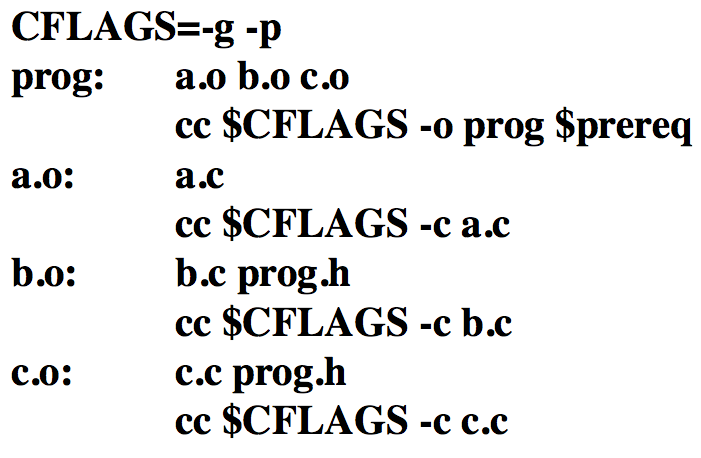
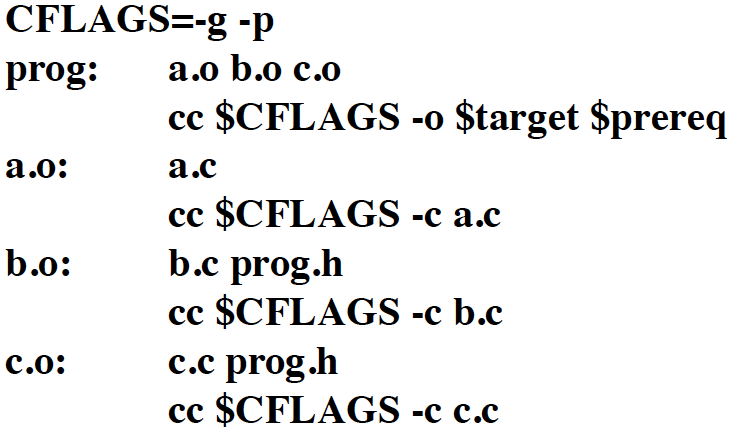
clase mk terminada

diff --git a/presentaciones/mk.md b/presentaciones/mk.md
@@ -3,7 +3,7 @@
 
 [*Mk*](https://swtch.com/plan9port/man/man1/mk.html) es una herramienta general y eficiente para describir y mantener dependencias entre archvos y programas. Mk es compatible y al estilo de la herramienta de UNIX *make*. Las ventajas más importantes de mk sobre make es que ejecuta recetas en paralelo, usando metareglas de emparejado de patrones más que reglas de transformación de sufijos, y de resolucion de dependencias por cierre transitivo de todas las reglas. Mk corre donde sea de 2 a 30 veces más rápido de make.
 
-Un ejemplo
+### Receta básica
 
 Dado que mk está basado en make y make es un programa para instalar programas, vamos a ejemplificar mk con la instalación de un programa que, en este caso se llamará **prog**. Digamos que **prog** se hace a partir de **a.o** y **b.o**, los cuales a su vez se hacen al compilar **a.c** y **b.c** respectivamente. Además **b.c** incluye un archivo de cabecera **prog.h**. Representamos estas relaciones esquemáticamente como sigue: 
 
@@ -27,9 +27,151 @@ Si cambiamos un archivo fuente, *mk* solo reconstruirá aquellos archivos que no
 
 <img src="../imagenes/mk5.png" height = "120">
 
+*Mk* puede explicar porque está reconstruyendo un archivo si usamos la opción **-e**. Por ejemplo
+
+<img src="../imagenes/mk6.png" height = "160">
+
+Esto es, **b.o** estaba desactualizado con respecto a **prog.h**. Después de que **b.o** fue re hecho, se encontró que **prog** estaba desactualizado con respecto a **b.o** y fue re hecho. Los números son las fechas de modificación de los archivos: los valores no son tan importantes como la diferencia entre ellos. Una fechas de modificación de cero indica un archivo que no existe.
+
+### Variables
+
+Supongamos ahora que necesitamos añadir una opción en todos los pasos, por ejemplo necesitamos la opción **-g**. Por demos simplemente editar cada paso para cambiar **c** a **cc -g**:
+
+<img src="../imagenes/mk7.png" height = "140">
+
+Una mejor solución es unas una *variable*. En *mk* una variable tiene una forma muy similar a una variable de shell. Un nombre conveneinte (mnemotécnico) sería **CFLAGS**. El nuevo mkfile se vería así:
+
+<img src="../imagenes/mk8.png" height = "150">
+
+Ahora, si quieremos añadir más opciones a todos los pasos (digamos añadir la opción **-p**) necesitamos solo cambiar la primer línea a
+
+<img src="../imagenes/mk9.png" height = "25"> 
+
+y recompilar todos los objetos de nuevo. La forma facil de hacer esto es con **mk -a** lo que quiere decir "has todo de nuevo sin importar la fecha de modificación".
+
+Algunas variables ya están incluidas por *mk* para ser usadas en las fórmulas. Dos muy comunes son **prereq** y **target** cuyo valor siempre será todos los prerequicitos de la regla y el objetivo de la mismo respectivamente. Podemos entonces reescribir la primera reglas así:
+
+<img src="../imagenes/mk10.png" height = "60"> 
+
+Así se puede garantizar que los prerequicitos de cada regla son los mismos. Ahora es facil incorporar un nuevo requicito , por ejemplo **c.o** añadiendo el nuevo nombre una sola vez.
+
+<img src="../imagenes/mk11.png" height = "200">
+
+### Ejercicio
+
+Hagamos una *mk*. Vamos a suponer que tenemos unos archivos *fastq* que queremos alinear con **BWA**.
 
 
+Primero entremos al cluster con nuestra cuenta de alumno. Las instrucciones [aquí](./ssh.md).
+
+Entramos a byobu
+
+```
+$ byobu
+```
+
+hacemos una carpeta donde va a vivir nuestro mk y entramos
+
+```
+$ mkdir mk_bwa
+$ cd mk_bwa
+```
+
+Hacemos una liga simbólica de nuestros datos a la carpeta del mk
+
+```
+$ ls -lah /castle/alumno70/data.alignment/
+$ ln -s /castle/alumno70/data.alignment data
+```
+
+¿Cómo alinearíamos una muestra?
+
+```
+$ bwa mem \
+	-t 2 \
+	/reference/ftp.broadinstitute.org/bundle/hg38/Homo_sapiens_assembly38.fasta \
+	/data/MT1_L001_R1.fastq.gz \
+	/data/MT1_L001_R1.fastq.gz \
+	> MT1.sam 	
+```
+
+Nuestra recera sería:
+
+```
+NPROC=1 # This program uses threads, so we use only one process
+THREADS=2
+REFERENCE=/reference/ftp.broadinstitute.org/bundle/hg38/Homo_sapiens_assembly38.fasta
+
+results/bwa_align/%.sam:	data/%_L001_R1.fastq.gz data/%_L001_R2.fastq.gz
+	mkdir -p `dirname $target`
+	bwa mem \
+		-t $THREADS \
+		$REFERENCE \
+		$prereq \
+		> $target
+```
+
+entonce hay que copiar esta receta en un archivo llamado *mkfile*
+
+```
+$ nano mkfile
+```
 
 
+De esta forma si queremos hacer el sam de la primera secuencia tenemos que hacer
 
-http://hgdownload.cse.ucsc.edu/goldenPath/hg19/encodeDCC/wgEncodeUwRepliSeq/
+```
+$ mk results/bwa_align/MT1.sam
+```
+
+Pero queremos que nos los haga todos a la vez. ¿se acuerdan que *mk* hace la primera orden de la lista de tareas? 
+Vamos a generar una tarea virtual con todas las acciones que queremos. Para esto hay que generar los los nombres de todos los targets de nuestro mk.
+
+```
+$ find -L data/ -name '*.fastq.gz' \
+| sed -r -e 's#data/#results/bwa_align/#g' -e 's#_L001_R[12]\.fastq\.gz#.sam#g' \
+| sort -u
+```
+
+Y nuestra receta sería
+
+
+```
+NPROC=1 # This program uses threads, so we use only one process
+THREADS=2
+REFERENCE=/reference/ftp.broadinstitute.org/bundle/hg38/Homo_sapiens_assembly38.fasta
+
+BWA_ALIGN_TARGETS=`{ find -L data/ -name '*.fastq.gz' \
+| sed -r -e 's#data/#results/bwa_align/#g' -e 's#_L001_R[12]\.fastq\.gz#.sam#g' \
+| sort -u }
+
+bwa_align:V:	$BWA_ALIGN_TARGETS
+
+results/bwa_align/%.sam:	data/%_L001_R1.fastq.gz data/%_L001_R2.fastq.gz
+	mkdir -p `dirname $target`
+	bwa mem \
+		-t $THREADS \
+		$REFERENCE \
+		$prereq \
+		> $target
+```
+
+Ahora para correr todos los alineamientos de la carpeta solo tenemos que tipear
+
+```
+$ mk
+```
+
+Ahora queremos hacer nuestra mágia con nuevos datos. Para eso solo tenemos que rehacer nuestra liga simbólica a la carpeta con datos nuevos
+
+```
+$ rm data
+$ ls -lah /castle/alumno70/data.alignment2/
+$ ln -s /castle/alumno70/data.alignment2 data
+```
+
+Y repetimos los pases mágicos
+
+```
+$ mk
+```

diff --git a/presentaciones/ssh.md b/presentaciones/ssh.md
@@ -33,6 +33,12 @@ o, lo que es lo mismo, a esta IP:
 	```
 	$ ssh <usuario>@castillo.cluster.inmegen.gob.mx
 	```
+o
+
+	```
+	$ ssh <usuario>@192.168.105.221
+	```
+
 
 3. Teclea tu contraseña (parecerá que no se está escribiendo nada) y da enter de nuevo
 
@@ -43,6 +49,12 @@ o, lo que es lo mismo, a esta IP:
 	```
 	castillo.cluster.inmegen.gob.mx
 	```
+o
+
+	```
+	192.168.105.221
+	```
+
 	
 	![PuTTY](../imagenes/putty.jpg)
 
@@ -62,7 +74,7 @@ o, lo que es lo mismo, a esta IP:
 
 ## Byobu
 
-[Byobu](http://byobu.co/) es un multiplexador de terminal. Sirve, entre otras cosas, para proteger el trabajo que hacemos en el cluster de posibles desconecciones inesperadas desde nuestra terminal. 
+[Byobu](http://byobu.co/) es un multiplexador de terminal. Sirve, entre otras cosas, para proteger el trabajo que hacemos en el cluster de posibles desconexiones inesperadas desde nuestra terminal. 
  
 
 ```
@@ -98,7 +110,7 @@ Salimos de Byobu.
 $ exit
 ```
 
-Cerramos la coneción SSH
+Cerramos la conexión SSH
 
 ```
 $ exit
